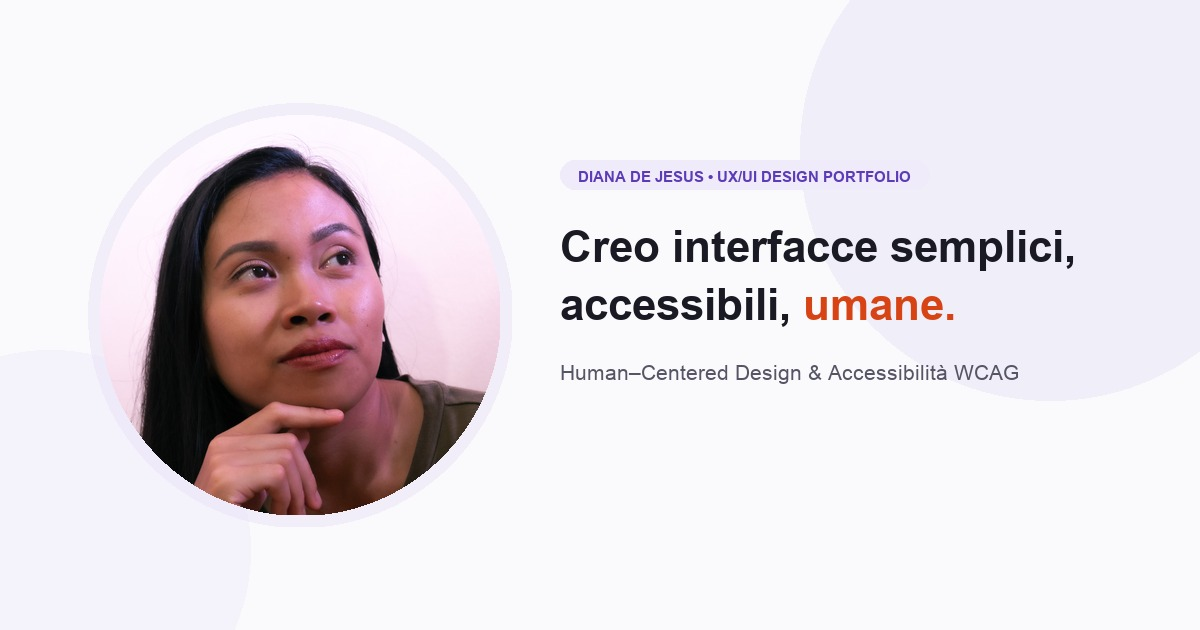
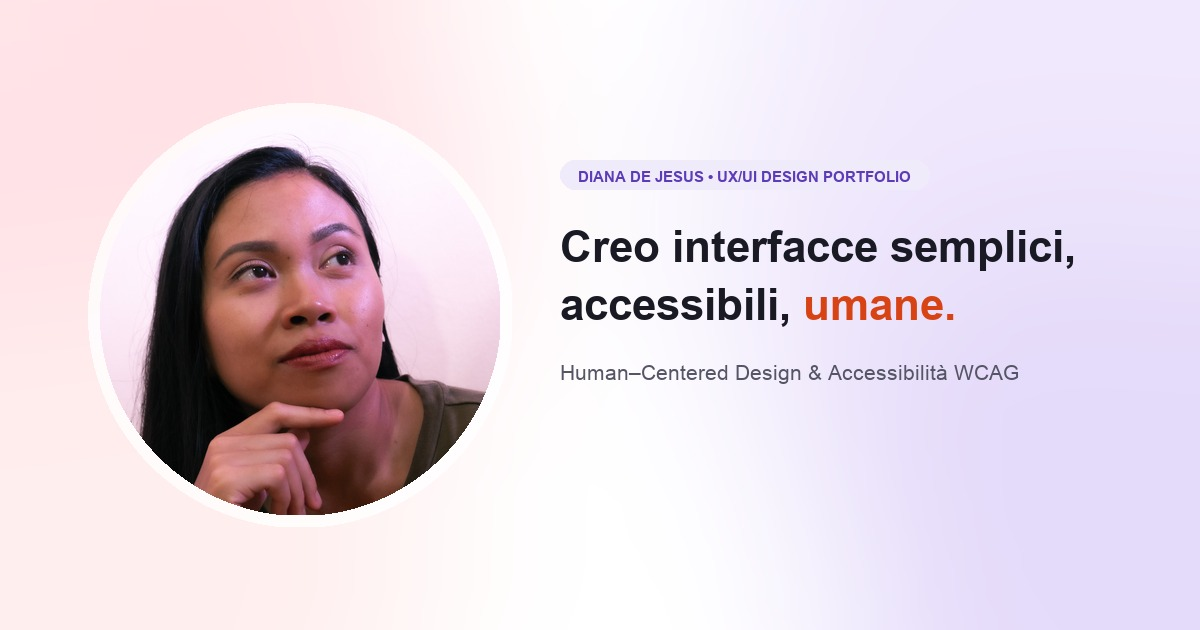
feat(og): restore brand mesh gradient background and add English OG image with translated copy

Changed region(s): [[0.74, 0.5429, 1.0, 1.0], [0.0925, 0.0, 0.2467, 0.2413], [0.0925, 0.2413, 0.1233, 0.3016]]

diff --git a/en/index.html b/en/index.html
@@ -25,7 +25,7 @@
   <meta property="og:url" content="https://dianamariedjesus.github.io/en/">
   <meta property="og:title" content="Diana de Jesus | UX/UI Design Portfolio">
   <meta property="og:description" content="Creating accessible experiences for real people. Empathy first, then aesthetics, because inclusive design is a responsibility.">
-  <meta property="og:image" content="https://dianamariedjesus.github.io/assets/img/og-image.jpg">
+  <meta property="og:image" content="https://dianamariedjesus.github.io/assets/img/og-image-en.jpg">
   <meta property="og:image:width" content="1200">
   <meta property="og:image:height" content="630">
   <meta property="og:image:type" content="image/jpeg">
@@ -34,7 +34,7 @@
   <meta name="twitter:card" content="summary_large_image">
   <meta name="twitter:title" content="Diana de Jesus | UX/UI Design Portfolio">
   <meta name="twitter:description" content="Creating accessible experiences for real people. Empathy first, then aesthetics, because inclusive design is a responsibility.">
-  <meta name="twitter:image" content="https://dianamariedjesus.github.io/assets/img/og-image.jpg">
+  <meta name="twitter:image" content="https://dianamariedjesus.github.io/assets/img/og-image-en.jpg">
 
   <!-- Base Navbar & Footer CSS -->
   <link rel="stylesheet" href="../assets/css/homepage.css?v=15.3">
